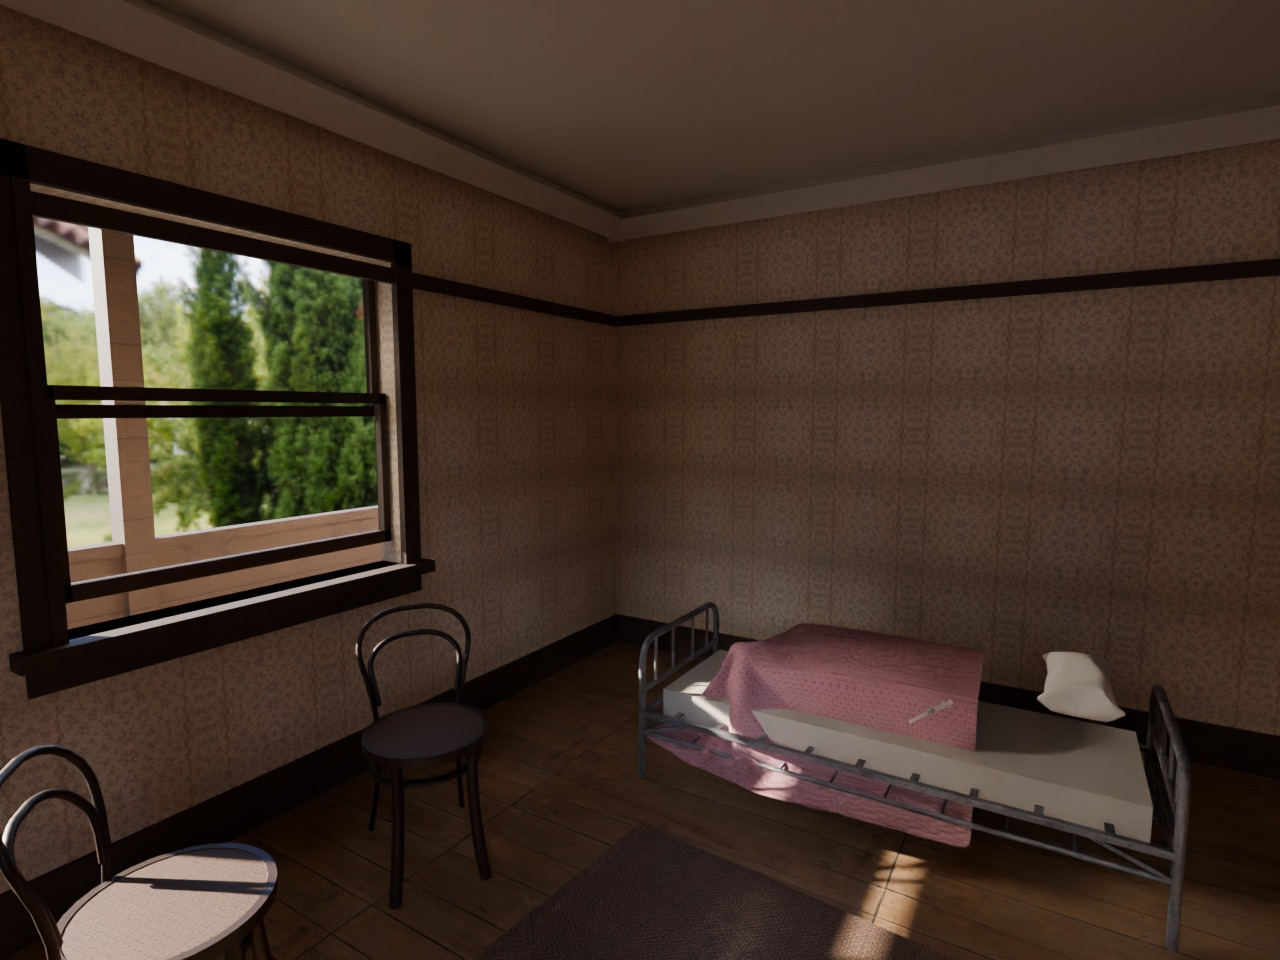
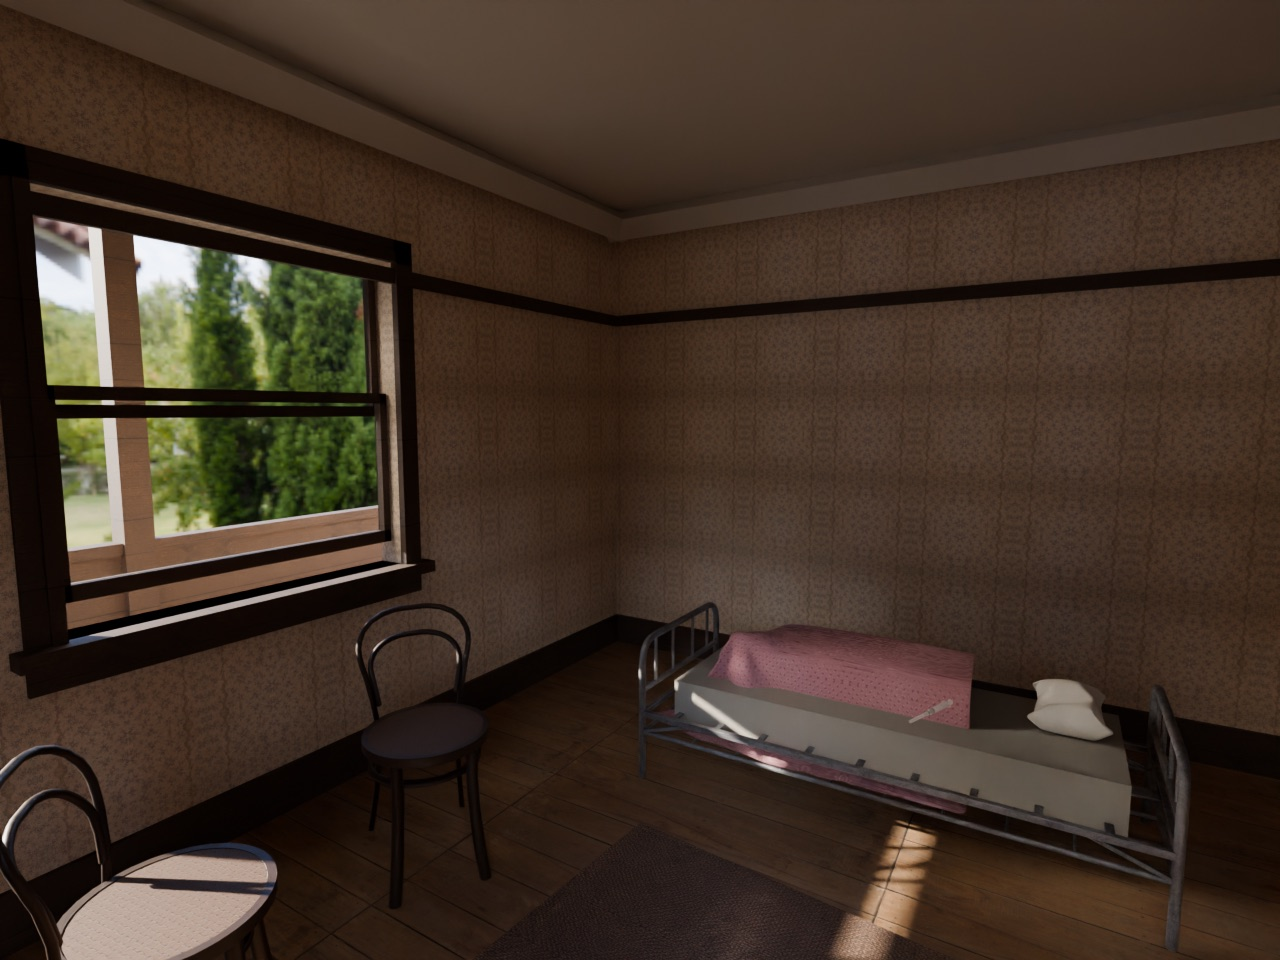
The spread rests on the mattress, measured not guessed
Three passes at this were wrong three different ways and all for the same
reason: the bedding was being positioned off its bounding box, and a bounding
box tells you nothing useful about cloth. The bottom of it is the hem of the
drape. The top of it is the crest of a fold. Neither is the surface that has to
touch the mattress, so the spread kept floating with daylight under it.

Measured this time, and the numbers are in the diff rather than in a render:

- the mattress is a fixed 0.185 off the springs, which is what a sprung
  Victorian single carries and is also what stops the sourced spread having to
  drape further than it was modelled to
- the spread lands by the **median height of its own vertices over the mattress
  footprint**. Most of a spread is the flat that lies on the bed, so a median
  ignores both the folds above it and the drape below it
- the pillow lands by **its own lowest vertex**, separately

That last one is the actual bug the eye was seeing. The pillow and the spread
are one import and two meshes, and they were being placed as one object. In the
source they sat on a mattress deeper than this one, and the pillow inherited a
fifteen centimetre hover from it. Two anchors, not one.

Verified numerically before rendering: the spread's median over the mattress is
mattress top + 0.015 and the pillow's lowest vertex is mattress top + 0.010.

Two things that fell out of fixing it:
[…]

Changed region(s): [[0.5, 0.6562, 0.9062, 0.9375]]

diff --git a/tools/blender/build_room1a.py b/tools/blender/build_room1a.py
@@ -494,29 +494,45 @@ FURNITURE = {
 
 def build_bedding(bed_holder, spread, linen, ticking):
     """
-    The spread and the pillow, sourced, sized off the frame rather than a number.
+    The mattress, the spread and the pillow, measured rather than eyeballed.
 
-    The first pass at this was three boxes and the bed read as a slab with a
-    pink lid, which is the one thing in the room the eye goes to. Bedding is
-    cloth and cloth is folds; a box has no folds and no amount of texture buys
-    them.
+    Three passes at this were wrong in three different ways, all because the
+    bedding was being positioned off its bounding box and a bounding box tells
+    you nothing useful about cloth. The bottom of the box is the hem of the
+    drape, which hangs most of the way to the floor. The top of it is the crest
+    of a fold. Neither is the surface that has to touch the mattress, and both
+    left the spread floating over the bed with daylight under it.
 
-    So it is `bedding.glb`, which is the blanket and the pillow lifted out of a
-    sourced messy bed and the timber frame it came on thrown away. It drapes
-    over the sides, which is why it is measured against the frame and not given
-    a size: the frame is the sourced iron single and the drop has to clear it.
+    So the mattress is a fixed thickness, and both cloth meshes are then dropped
+    onto it by asking their own vertices where they are:
 
-    Both meshes are retextured. The source blanket is blue and the room's is
-    dusty rose chenille, which is most of the colour in the target photograph
-    and most of what bounces warm light back onto the wall behind the bed.
+    - the spread by the **median height of its vertices over the mattress
+      footprint**, because most of a spread is the flat that lies on the bed,
+      and a median ignores both the folds above it and the drape below it
+    - the pillow by **its own lowest vertex**, on its own, because it is a
+      separate mesh that in the source sat on a thicker mattress than this one
+      and inherited a fifteen centimetre hover from it
+
+    Doing them together is what kept failing. They are one import and two
+    objects, and they need two anchors.
 
     Crystal still comes from `crystal.ts` at runtime and is deliberately not
     here. She is not part of the room and she must not be baked into it.
     """
     lo, hi = world_bounds(bed_holder.children_recursive)
-    # The springs sit a little under half way up the frame. Bedding goes on top
-    # of them, not through them.
+    # The springs sit a little under half way up the frame. A sprung Victorian
+    # single carries a deep kapok mattress, and this number is also what stops
+    # the sourced spread having to drape further than it was modelled to.
     springs = lo.z + (hi.z - lo.z) * 0.42
+    top = springs + 0.185
+
+    mattress = cube(
+        "mattress",
+        (lo.x + 0.10, lo.y + 0.14, springs),
+        (hi.x - 0.10, hi.y - 0.14, top),
+    )
+    assign(mattress, ticking)
+    mlo, mhi = world_bounds([mattress])
 
     before = {o.name for o in bpy.data.objects}
     bpy.ops.import_scene.gltf(filepath=f"{SOURCED}/bedding.glb")
@@ -528,71 +544,69 @@ def build_bedding(bed_holder, spread, linen, ticking):
         r.parent = holder
     bpy.context.view_layer.update()
 
-    # Scale on whichever of length or width binds first. Length alone put the
-    # spread a hand's width wider than the frame on both sides and the pillow
-    # hanging off the head.
     blo, bhi = world_bounds(new)
-    size = bhi - blo
-    if size.y > 1e-6:
-        holder.scale = ((hi.y - lo.y - 0.16) / size.y,) * 3
+    if (bhi - blo).y > 1e-6:
+        holder.scale = ((hi.y - lo.y - 0.16) / (bhi - blo).y,) * 3
     bpy.context.view_layer.update()
 
     # Then widen it on its own. Length is what sets the scale, because a spread
     # that is short reads as a towel, and at that scale this one came up narrow
     # enough to leave a bare strip of ticking down one side whichever way it was
-    # thrown. Stretching cloth across its width by a sixth is not visible; a bed
+    # thrown. Stretching cloth across its width by a sixth is not visible. A bed
     # half made is.
+    # Wide enough to cover the mattress and turn down its sides, and no wider.
+    # At frame width plus a third of a metre the drape cleared the mattress
+    # entirely, passed through the iron side rail and hung in mid air beside the
+    # bed. The spread has to be measured against the mattress, not the frame.
     blo, bhi = world_bounds(new)
     if (bhi - blo).x > 1e-6:
-        holder.scale.x *= ((hi.x - lo.x) + 0.34) / (bhi - blo).x
+        holder.scale.x *= ((mhi.x - mlo.x) + 0.17) / (bhi - blo).x
     bpy.context.view_layer.update()
 
-    # A mattress under it, because the sourced blanket came off a bed that had
-    # one and drapes as though it still does. On bare springs it sags into the
-    # frame and the bed reads as a hammock.
-    mattress = cube(
-        "mattress",
-        (lo.x + 0.10, lo.y + 0.08, springs),
-        (hi.x - 0.10, hi.y - 0.08, springs + 0.13),
-    )
-    assign(mattress, ticking)
-
-    # Anchor on the flat of the blanket, and find the flat by asking the mesh.
-    #
-    # Neither end of the bounding box is the right anchor. The bottom of it is
-    # the hem of the drape, which in the source hangs most of the way to the
-    # floor, and sitting that on the mattress lifted the whole spread half a
-    # metre and it floated over the bed like a tent. The top of it is the crest
-    # of a fold, and sitting that on the mattress dropped the spread through the
-    # bed and left it puddled on the boards.
-    #
-    # What has to touch the mattress is the flat, and most of a spread is flat,
-    # so the median vertex height is the flat. That is what gets anchored, and
-    # the drape is left to hang past the frame.
-    blanket = max(
-        (o for o in new if o.type == "MESH"),
-        key=lambda o: o.dimensions.x * o.dimensions.y * o.dimensions.z,
-    )
-    heights = sorted((blanket.matrix_world @ v.co).z for v in blanket.data.vertices)
-    flat = heights[len(heights) // 2]
-
+    # Centre it on the frame in plan. Height is settled per mesh, below.
     blo, bhi = world_bounds(new)
     mid = (blo + bhi) / 2
     holder.location = (
         holder.location.x + ((lo.x + hi.x) / 2 - mid.x),
-        # Back off the head end so the pillow sits on the bed and not past it.
-        holder.location.y + ((lo.y + hi.y) / 2 - mid.y) - 0.07,
-        holder.location.z + (springs + 0.13 + 0.02 - flat),
+        # Down the bed toward the foot. The spread is thrown rather than
+        # made, and the head end is where the pillow goes anyway.
+        holder.location.y + ((lo.y + hi.y) / 2 - mid.y) - 0.10,
+        holder.location.z,
     )
     bpy.context.view_layer.update()
 
-    # Sorted by size: the blanket is the big one, the pillow is not.
     meshes = sorted(
         (o for o in new if o.type == "MESH"),
         key=lambda o: -(o.dimensions.x * o.dimensions.y * o.dimensions.z),
     )
-    for i, o in enumerate(meshes):
-        assign(o, spread if i == 0 else linen)
+    spread_mesh, pillow_mesh = meshes[0], (meshes[1] if len(meshes) > 1 else None)
+
+    def heights(ob, over_mattress: bool):
+        """World z of every vertex, optionally only those over the mattress."""
+        m = ob.matrix_world
+        pts = [m @ v.co for v in ob.data.vertices]
+        if over_mattress:
+            inside = [
+                p.z for p in pts
+                if mlo.x + 0.02 < p.x < mhi.x - 0.02 and mlo.y + 0.02 < p.y < mhi.y - 0.02
+            ]
+            if inside:
+                return sorted(inside)
+        return sorted(p.z for p in pts)
+
+    def drop(ob, delta: float):
+        ob.matrix_world = mathutils.Matrix.Translation((0, 0, delta)) @ ob.matrix_world
+        bpy.context.view_layer.update()
+
+    flat = heights(spread_mesh, True)
+    drop(spread_mesh, (top + 0.015) - flat[len(flat) // 2])
+
+    if pillow_mesh is not None:
+        drop(pillow_mesh, (top + 0.010) - heights(pillow_mesh, False)[0])
+
+    assign(spread_mesh, spread)
+    if pillow_mesh is not None:
+        assign(pillow_mesh, linen)
     return holder
 
 
@@ -857,7 +871,10 @@ def build() -> None:
     carpet = tiled_material("carpet", f"{TEXTURES}/carpet-brown.jpg", 0.95, 1.4)
     spread = tiled_material("spread", f"{TEXTURES}/bedspread-rose.jpg", 0.9, 0.55, 1.15)
     linen = flat_material("linen", (0.74, 0.70, 0.62), 0.88)
-    ticking = flat_material("ticking", (0.42, 0.38, 0.32), 0.94)
+    # Dark. Ticking is a grey striped cotton, and at anything like a clean
+    # mattress grey this slab caught the 3pm sun and read as a lit white box in
+    # the middle of the room.
+    ticking = flat_material("ticking", (0.26, 0.24, 0.20), 0.94)
     glass = glass_material()
 
     build_shell(wallpaper, plaster, boards, timber)
